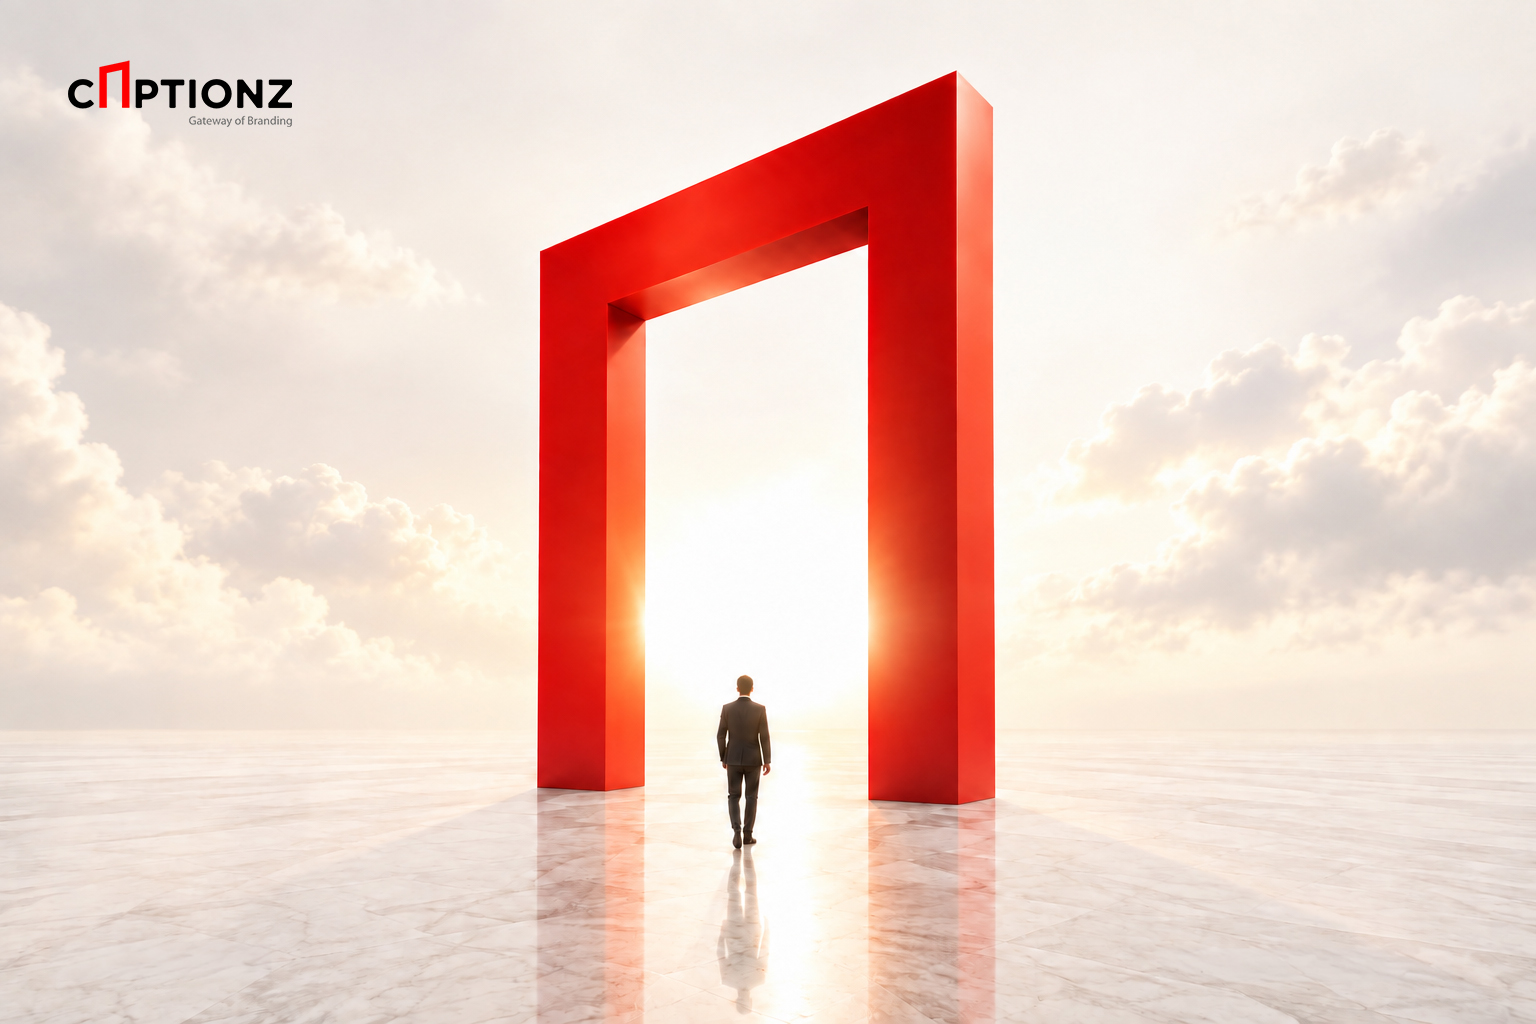
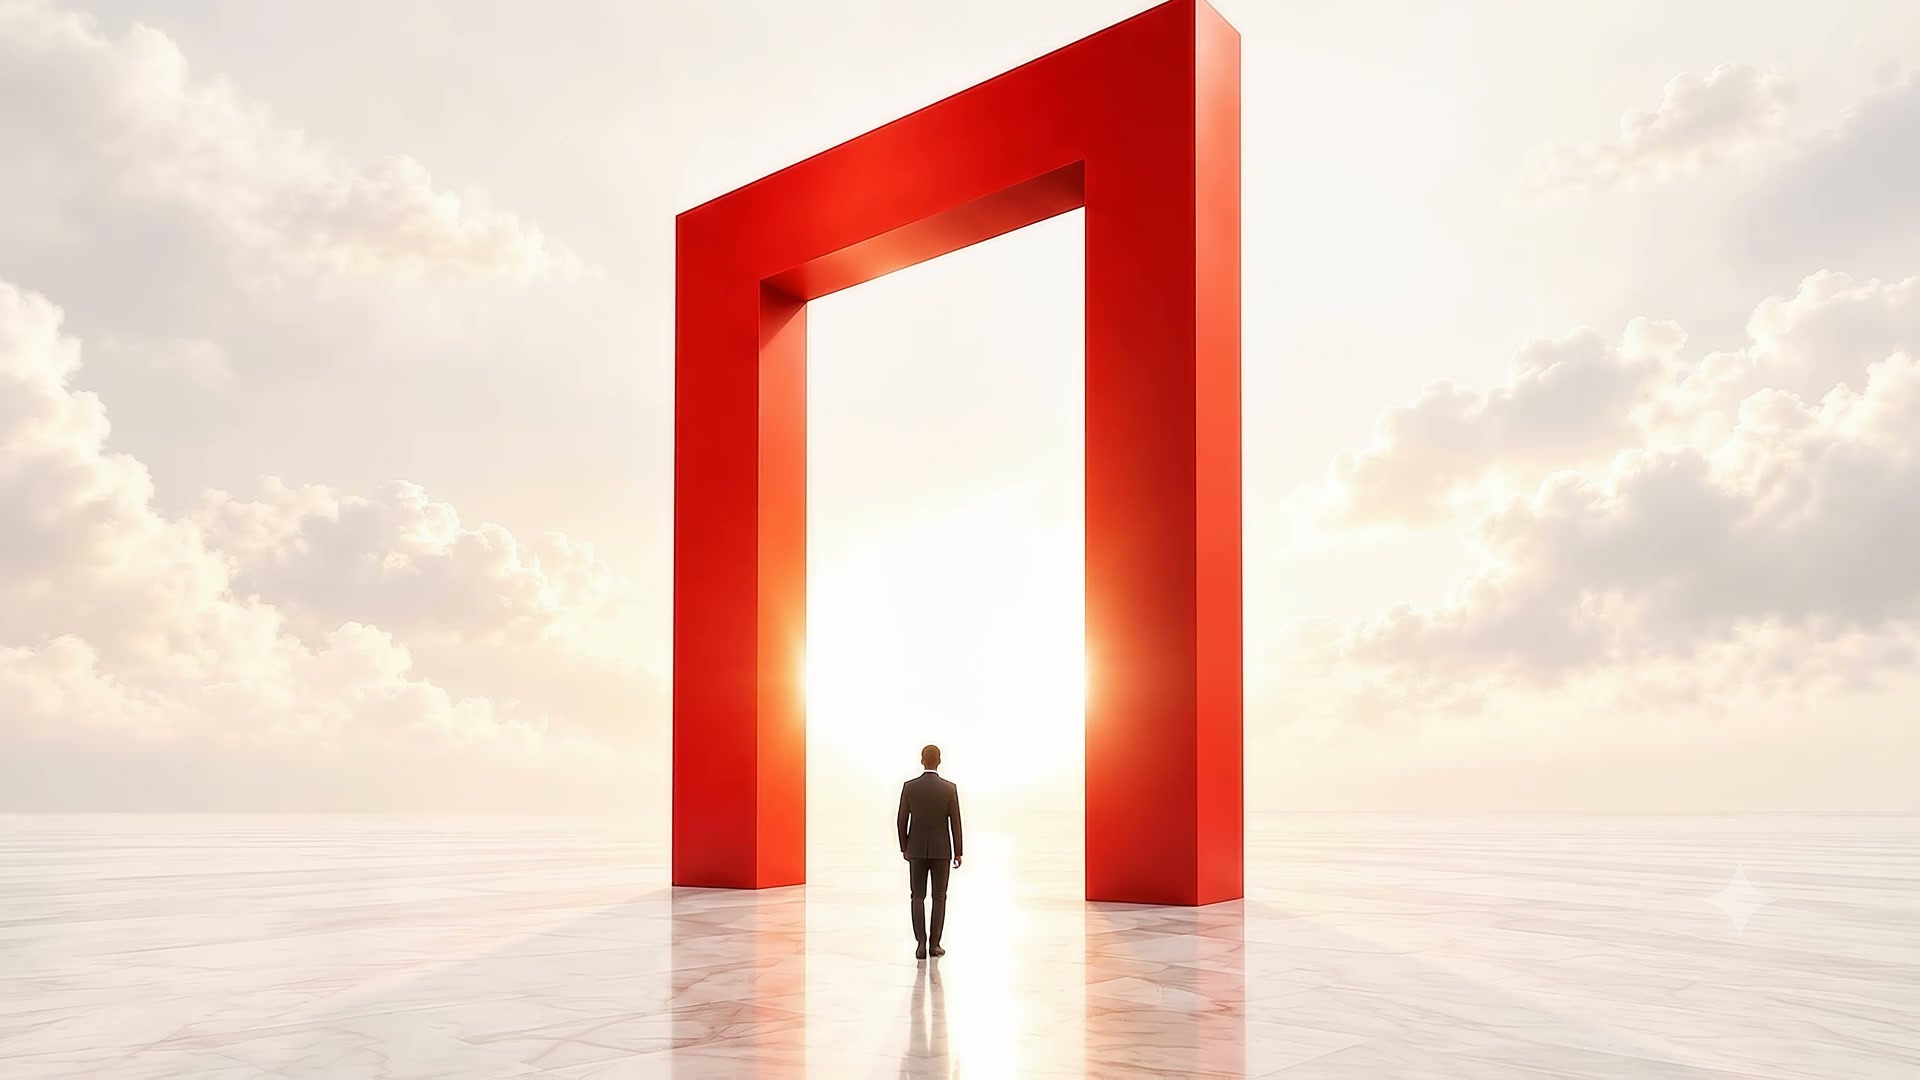
feat: improve home hero video playback handling, transition, and poster asset

diff --git a/app/routes/home.tsx b/app/routes/home.tsx
@@ -26,6 +26,10 @@ export default function Home() {
     const video = videoRef.current;
     if (!video) return;
 
+    if (!video.paused && video.currentTime > 0) {
+      setIsPlaying(true);
+    }
+
     const handlePlaying = () => setIsPlaying(true);
     video.addEventListener("playing", handlePlaying);
 
@@ -65,9 +69,11 @@ export default function Home() {
           muted
           loop
           playsInline
+          preload="auto"
           poster="/assets/home-poster.jpg"
           aria-hidden="true"
           className={isPlaying ? "is-playing" : ""}
+          onPlaying={() => setIsPlaying(true)}
         >
           <source src="/assets/home-animation.mp4" type="video/mp4" />
         </video>

diff --git a/app/app.css b/app/app.css
@@ -1046,7 +1046,7 @@ body.menu-open { overflow: hidden; }
   object-fit: cover;
 }
 .home-hero__poster { z-index: 1; }
-.home-hero video { z-index: 2; opacity: 0; transition: opacity 1.1s var(--ease-soft); }
+.home-hero video { z-index: 2; opacity: 0; transition: opacity 0.5s ease; }
 .home-hero video.is-playing { opacity: 1; }
 
 .home-hero__scrim {
